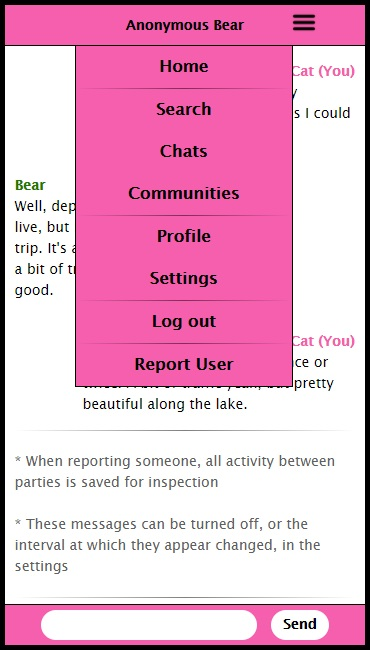
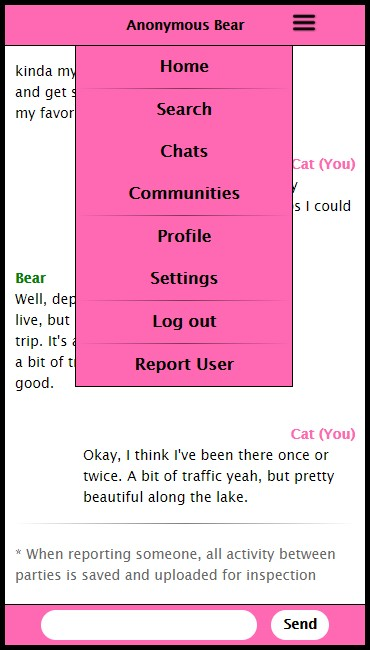
endringer

diff --git a/appStyle.html b/appStyle.html
@@ -124,7 +124,7 @@
 
         <hr class="mobile-lines">
         
-        <p class="auto-msg">* When reporting someone, all activity between parties is saved for inspection</p><br>
+        <p class="auto-msg">* When reporting someone, all activity between parties is saved and uploaded for inspection</p><br>
         
         <p class="auto-msg">* These messages can be turned off, or the interval at which they appear changed, in the settings</p>
         
@@ -730,10 +730,17 @@
         <img src="images/app/menu-icon.png" alt="App Menu">
         <p>Communities</p>
       </div>
-      
-
-      
-      
+      <div class="communities-first-page">
+			
+				<p>Join an official community</p>
+				
+				<p>Your communities</p>
+				
+				<p>Search for communities</p>
+				<p>Create a community</p>
+			
+			</div>
+  
     </div>		
 		
 		

diff --git a/appStyle.css b/appStyle.css
@@ -495,3 +495,22 @@ body {
 .search-personal select {
 	width: 29% !important;
 }
+
+/* End search area */
+
+
+
+
+
+/* Communities area */
+
+.communities-first-page p {
+	background-color: ghostwhite;
+	border: 2px solid black;
+	border-radius: 50px;
+	width: 80%;
+	font-size: 1.4em;
+	margin: 50px auto;
+	text-align: center;
+	padding: 20px;
+}
